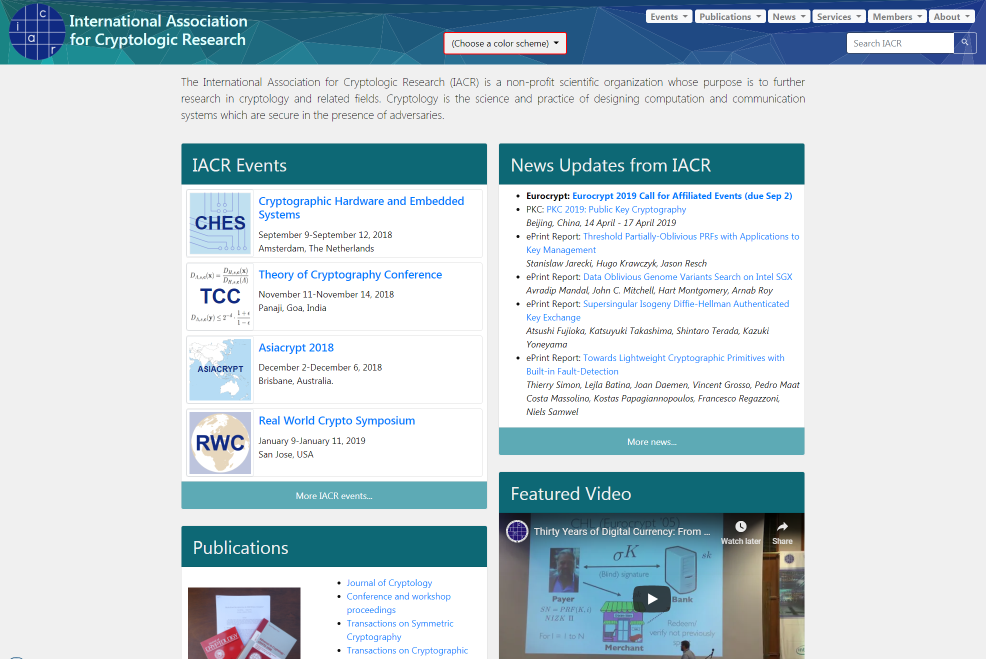
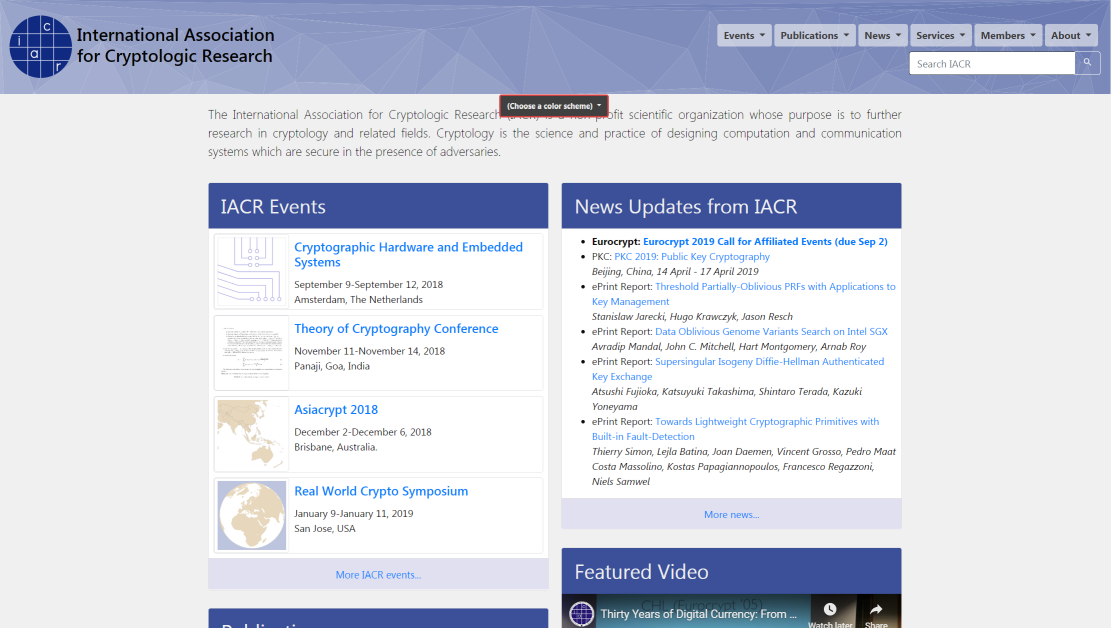
New screenshots, wider search box on kevin3.

diff --git a/kevin3/index.html b/kevin3/index.html
@@ -139,7 +139,7 @@
       </ul>
       <form class="form-inline ml-auto mt-2">
         <div class="input-group" id="search-form">
-          <input name="q" class="form-control border-dark" placeholder="Search IACR" type="search" aria-label="Search" size="30">
+          <input id="searchbox" name="q" class="form-control border-dark" placeholder="Search IACR" type="search" aria-label="Search" size="50">
           <div class="input-group-append">
             <button class="btn btn-outline-light my-2 my-sm-0" type="submit">
               <ion-icon name="search"></ion-icon>

diff --git a/kevin3/themes.css b/kevin3/themes.css
@@ -95,6 +95,8 @@ Cube theme.
 }
 .tri-topbar {
     background: url(headers/tri.svg);
+    padding-top: 25px !important;
+    padding-bottom: 25px !important;
 }
 .tri-topbar .badge-light {
     background: rgba(244,244,244, .6) !important;

diff --git a/kevin3/iacr.css b/kevin3/iacr.css
@@ -35,6 +35,9 @@ img#iacrlogo {
     width: 100%;
     margin-top: 20px;
   }
+  .searchbox {
+      min-width: 400px !important;
+  }
 }
 
 .masonry .card-header {
